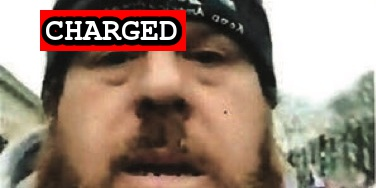
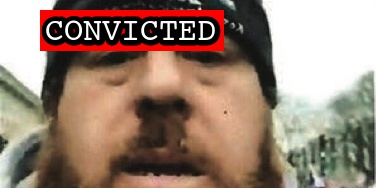
Latest import

Changed region(s): [[0.117, 0.0266, 0.6144, 0.2926]]

diff --git a/docs/_suspects/tommy-allan.md b/docs/_suspects/tommy-allan.md
@@ -4,15 +4,17 @@ lastName: Allan
 hashtag: TommyFrederickAllan
 aka:
 residence: California
-status: Indicted
+status: Convicted
 date: 2021-01-22
 charged: 2021-01-22
 indicted: 2021-02-02
-convicted:
+convicted: 2022-08-11
+acquitted:
 sentenced:
 dismissed:
 deceased:
-plea_hearing:
+plea_hearing: 2022-08-11
+trial_date:
 sentencing:
 age: 52
 occupation: Real Estate (Former)
@@ -34,10 +36,17 @@ published: true
 caseNumber: 1:21-cr-64
 videos:
 charges:
+  - code: 18 USC § 1512(c)(2),2
+    title: Obstruction of an Official Proceeding (Aiding and Abetting)
+    url: https://www.law.cornell.edu/uscode/text/18/1512
+    felony: true
 sentence:
 ---
+
 - [News Report](https://www.sacbee.com/news/local/article248703410.html)
 - [Complaint](https://www.justice.gov/file/1360801/download)
 - [Statement of Facts](https://www.justice.gov/opa/case-multi-defendant/file/1360801/download)
-- [Indictment](https://www.justice.gov/usao-dc/case-multi-defendant/file/1404251/download)
+- [Indictment](https://www.justice.gov/usao-dc/case-multi-defendant/file/1526426/download)
 - [Information](https://extremism.gwu.edu/sites/g/files/zaxdzs2191/f/Tommy%20Frederick%20Allan%20Information.pdf)
+- [Plea Agreement](https://www.justice.gov/usao-dc/case-multi-defendant/file/1526431/download)
+- [Statement of Offense](https://www.justice.gov/usao-dc/case-multi-defendant/file/1526436/download)

diff --git a/docs/_suspects/steven-billingsley.md b/docs/_suspects/steven-billingsley.md
@@ -4,15 +4,17 @@ lastName: Billingsley
 hashtag: StevenBillingsley
 aka:
 residence: Ohio
-status: Charged
+status: Convicted
 date: 2021-08-12
 charged: 2021-08-12
 indicted:
-convicted:
+convicted: 2022-08-15
+acquitted:
 sentenced:
 dismissed:
 deceased:
 plea_hearing: 2022-08-15
+trial_date:
 sentencing:
 age: 45
 occupation:
@@ -34,9 +36,15 @@ published: true
 caseNumber: 1:21-cr-519
 videos:
 charges:
+  - code: 18 USC § 1752(a)(2)
+    title: Disorderly and disruptive conduct in a restricted building or grounds
+    url: https://www.law.cornell.edu/uscode/text/18/1752
+    felony: false
 sentence:
 ---
 
 - [News Report](https://www.wtrf.com/jefferson-county/jefferson-county-man-charged-with-crimes-related-to-the-jan-6-capitol-riot/)
 - [Statement of Facts](https://www.justice.gov/usao-dc/case-multi-defendant/file/1457636/download)
-- [Information](https://www.justice.gov/usao-dc/case-multi-defendant/file/1457641/download)
+- [Information](https://www.justice.gov/usao-dc/case-multi-defendant/file/1526451/download)
+- [Plea Agreement](https://www.justice.gov/usao-dc/case-multi-defendant/file/1526456/download)
+- [Statement of Offense](https://www.justice.gov/usao-dc/case-multi-defendant/file/1526461/download)

diff --git a/docs/_suspects/erik-herrera.md b/docs/_suspects/erik-herrera.md
@@ -9,12 +9,13 @@ date: 2021-08-06
 charged: 2021-08-06
 indicted: 2021-10-06
 convicted:
+acquitted:
 sentenced:
 dismissed:
 deceased:
 plea_hearing:
-sentencing:
 trial_date: 2022-08-15
+sentencing:
 age:
 occupation:
 affiliations:
@@ -32,12 +33,12 @@ description: Click for latest case details. Suspects innocent until proven guilt
 author: seditiontrack
 layout: suspect
 published: true
-caseNumber:
+caseNumber: 1:21-cr-619
 videos:
 charges:
 sentence:
 ---
-
 - [News Report](https://www.ocregister.com/2021/10/07/2-more-with-southern-california-ties-charged-in-jan-6-storming-of-u-s-capitol/)
-- [Complaint](https://extremism.gwu.edu/sites/g/files/zaxdzs2191/f/Erik%20Herrera%20Criminal%20Complaint.pdf)
-- [Indictment](https://extremism.gwu.edu/sites/g/files/zaxdzs2191/f/Erik%20Herrera%20Indictment.pdf)
+- [Complaint](https://www.justice.gov/usao-dc/case-multi-defendant/file/1526501/download)
+- [Indictment](https://www.justice.gov/usao-dc/case-multi-defendant/file/1526511/download)
+- [Statement of Facts](https://www.justice.gov/usao-dc/case-multi-defendant/file/1526506/download)

diff --git a/docs/_suspects/kyle-fitzsimons.md b/docs/_suspects/kyle-fitzsimons.md
@@ -9,10 +9,12 @@ date: 2021-02-04
 charged: 2021-02-04
 indicted: 2021-02-26
 convicted:
+acquitted:
 sentenced:
 dismissed:
 deceased:
 plea_hearing:
+trial_date:
 sentencing:
 age: 37
 occupation: Butcher
@@ -41,4 +43,4 @@ sentence:
 - [Self Incrimination (Interview)](https://www.therochestervoice.com/west-lebanon-man-recounts-the-hope-then-terror-he-encountered-on-jan-6-cms-15693)
 - [Racist Speech (Video)](https://twitter.com/nathanTbernard/status/1357746924535877633?s=20)
 - [DOJ Press Release](https://www.justice.gov/usao-dc/pr/maine-man-charged-federal-court-assaulting-and-impeding-law-enforcement-officers-during)
-- [Indictment](https://www.justice.gov/usao-dc/case-multi-defendant/file/1371366/download)
+- [Indictment](https://www.justice.gov/usao-dc/case-multi-defendant/file/1526446/download)
